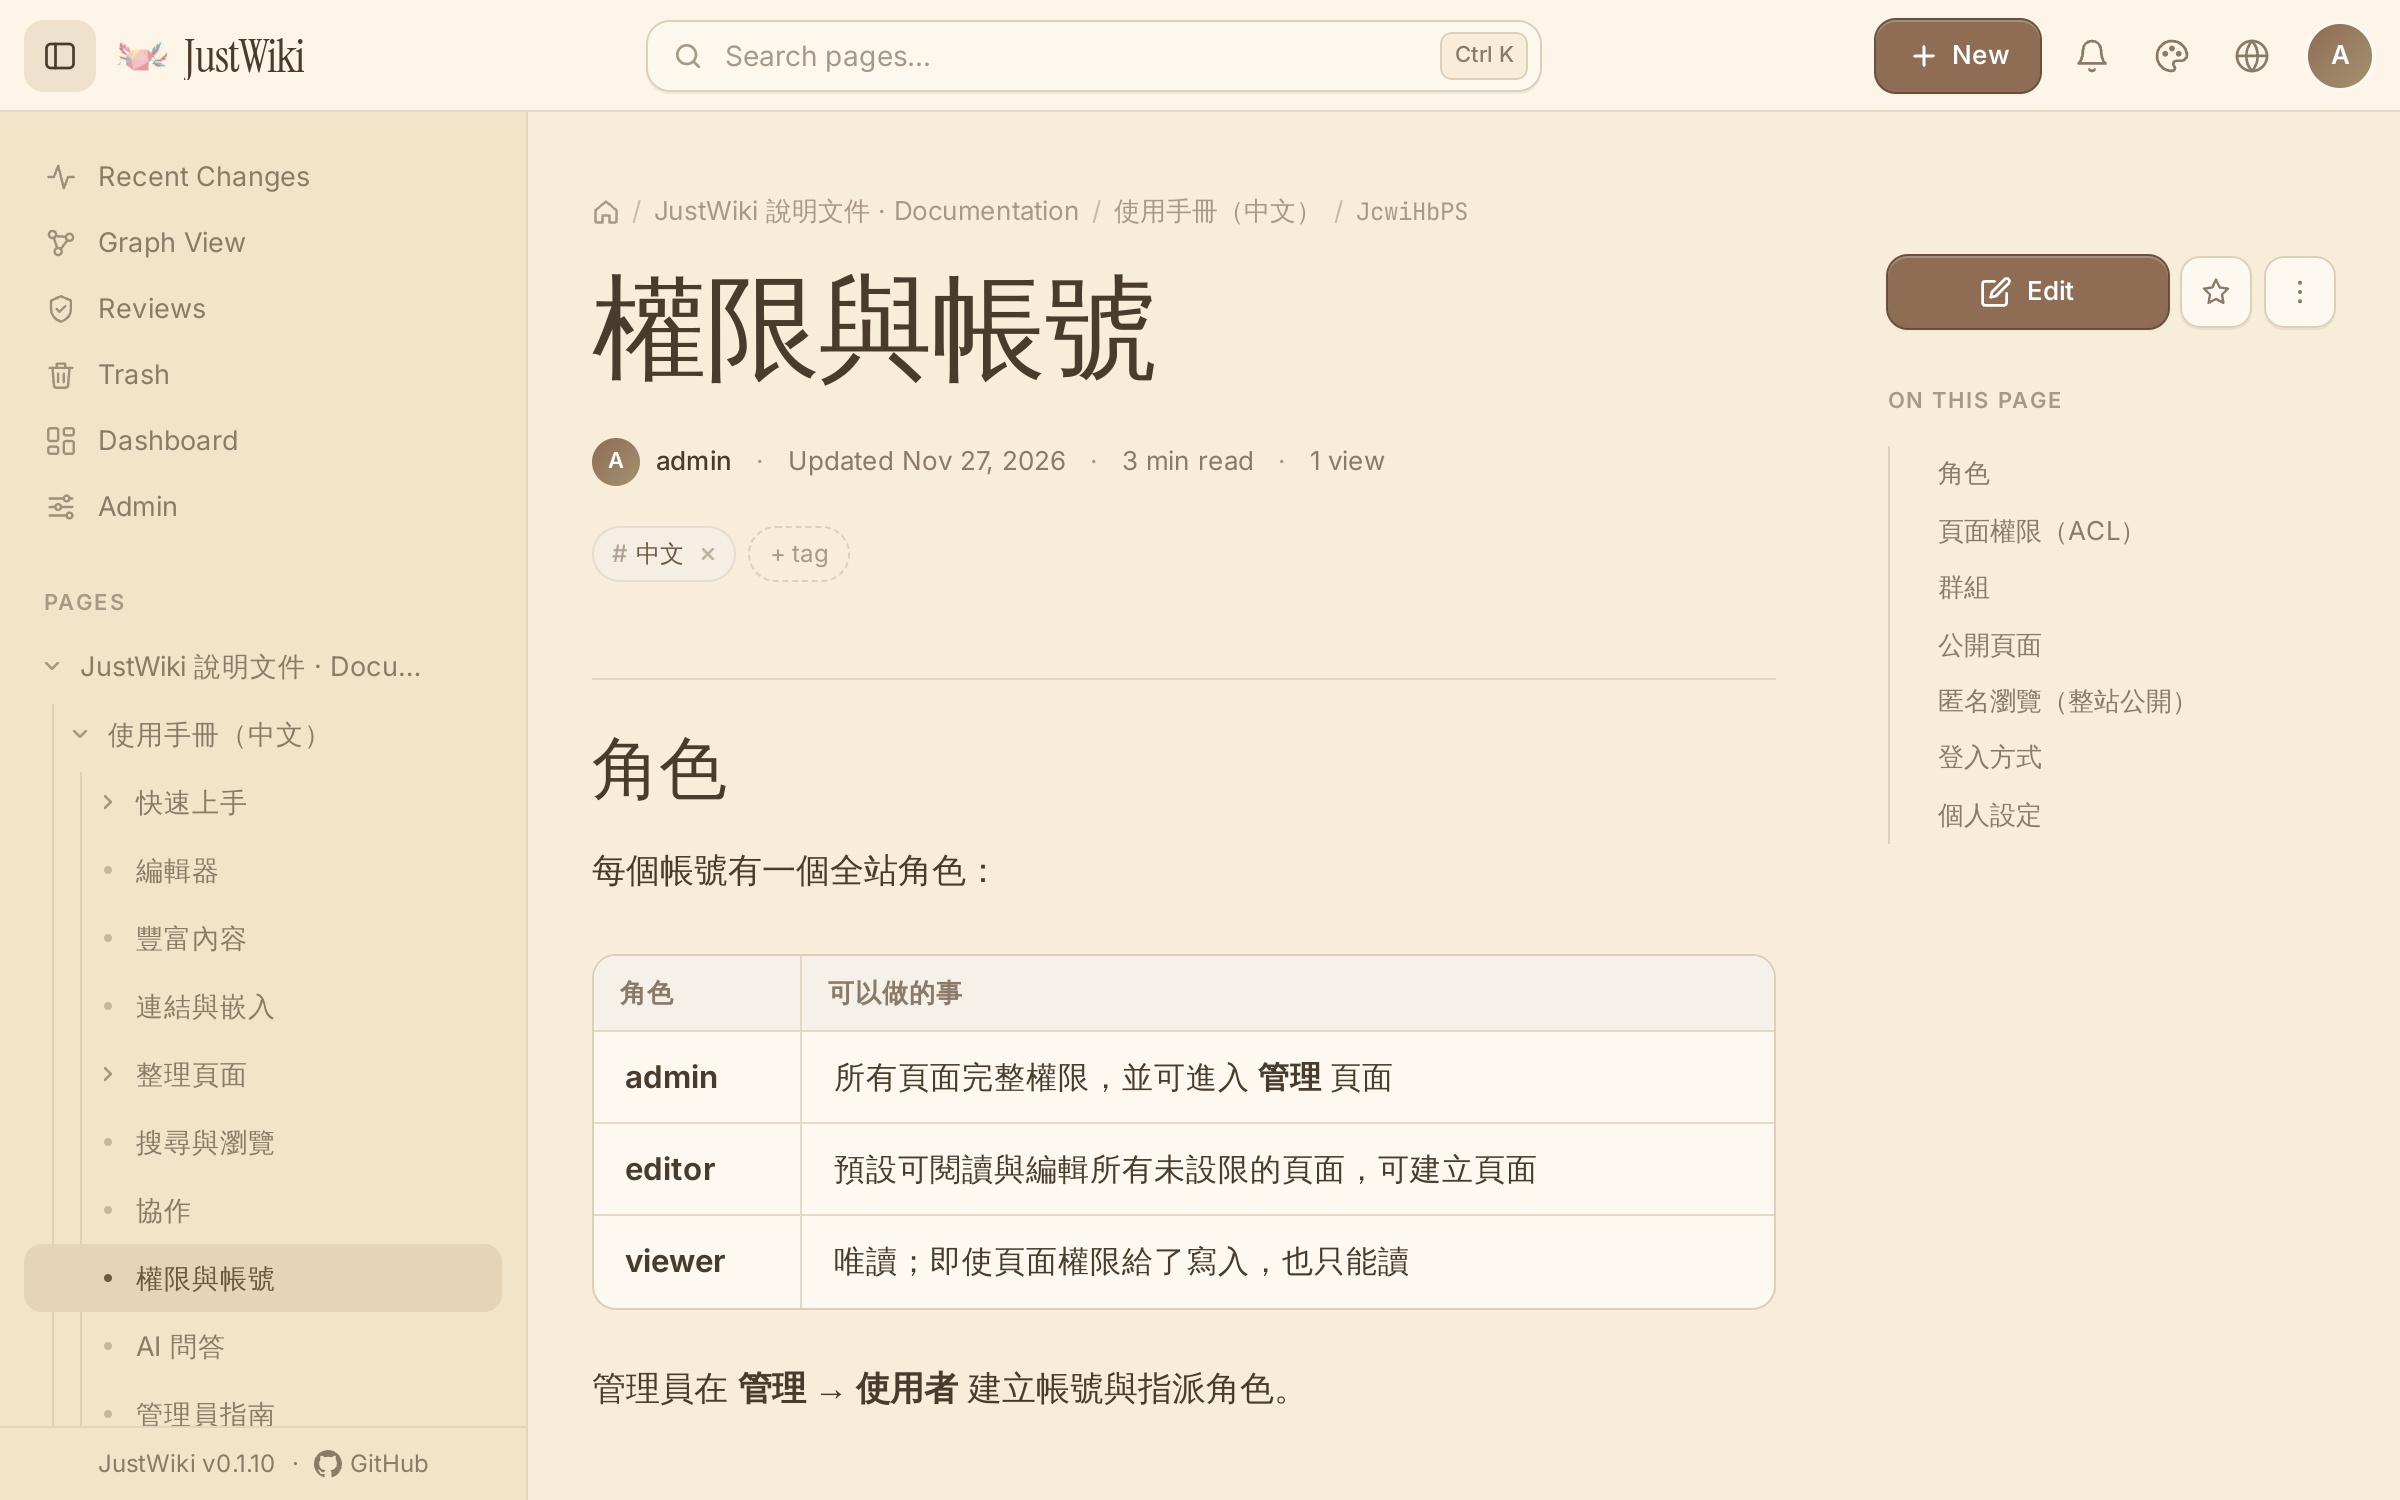
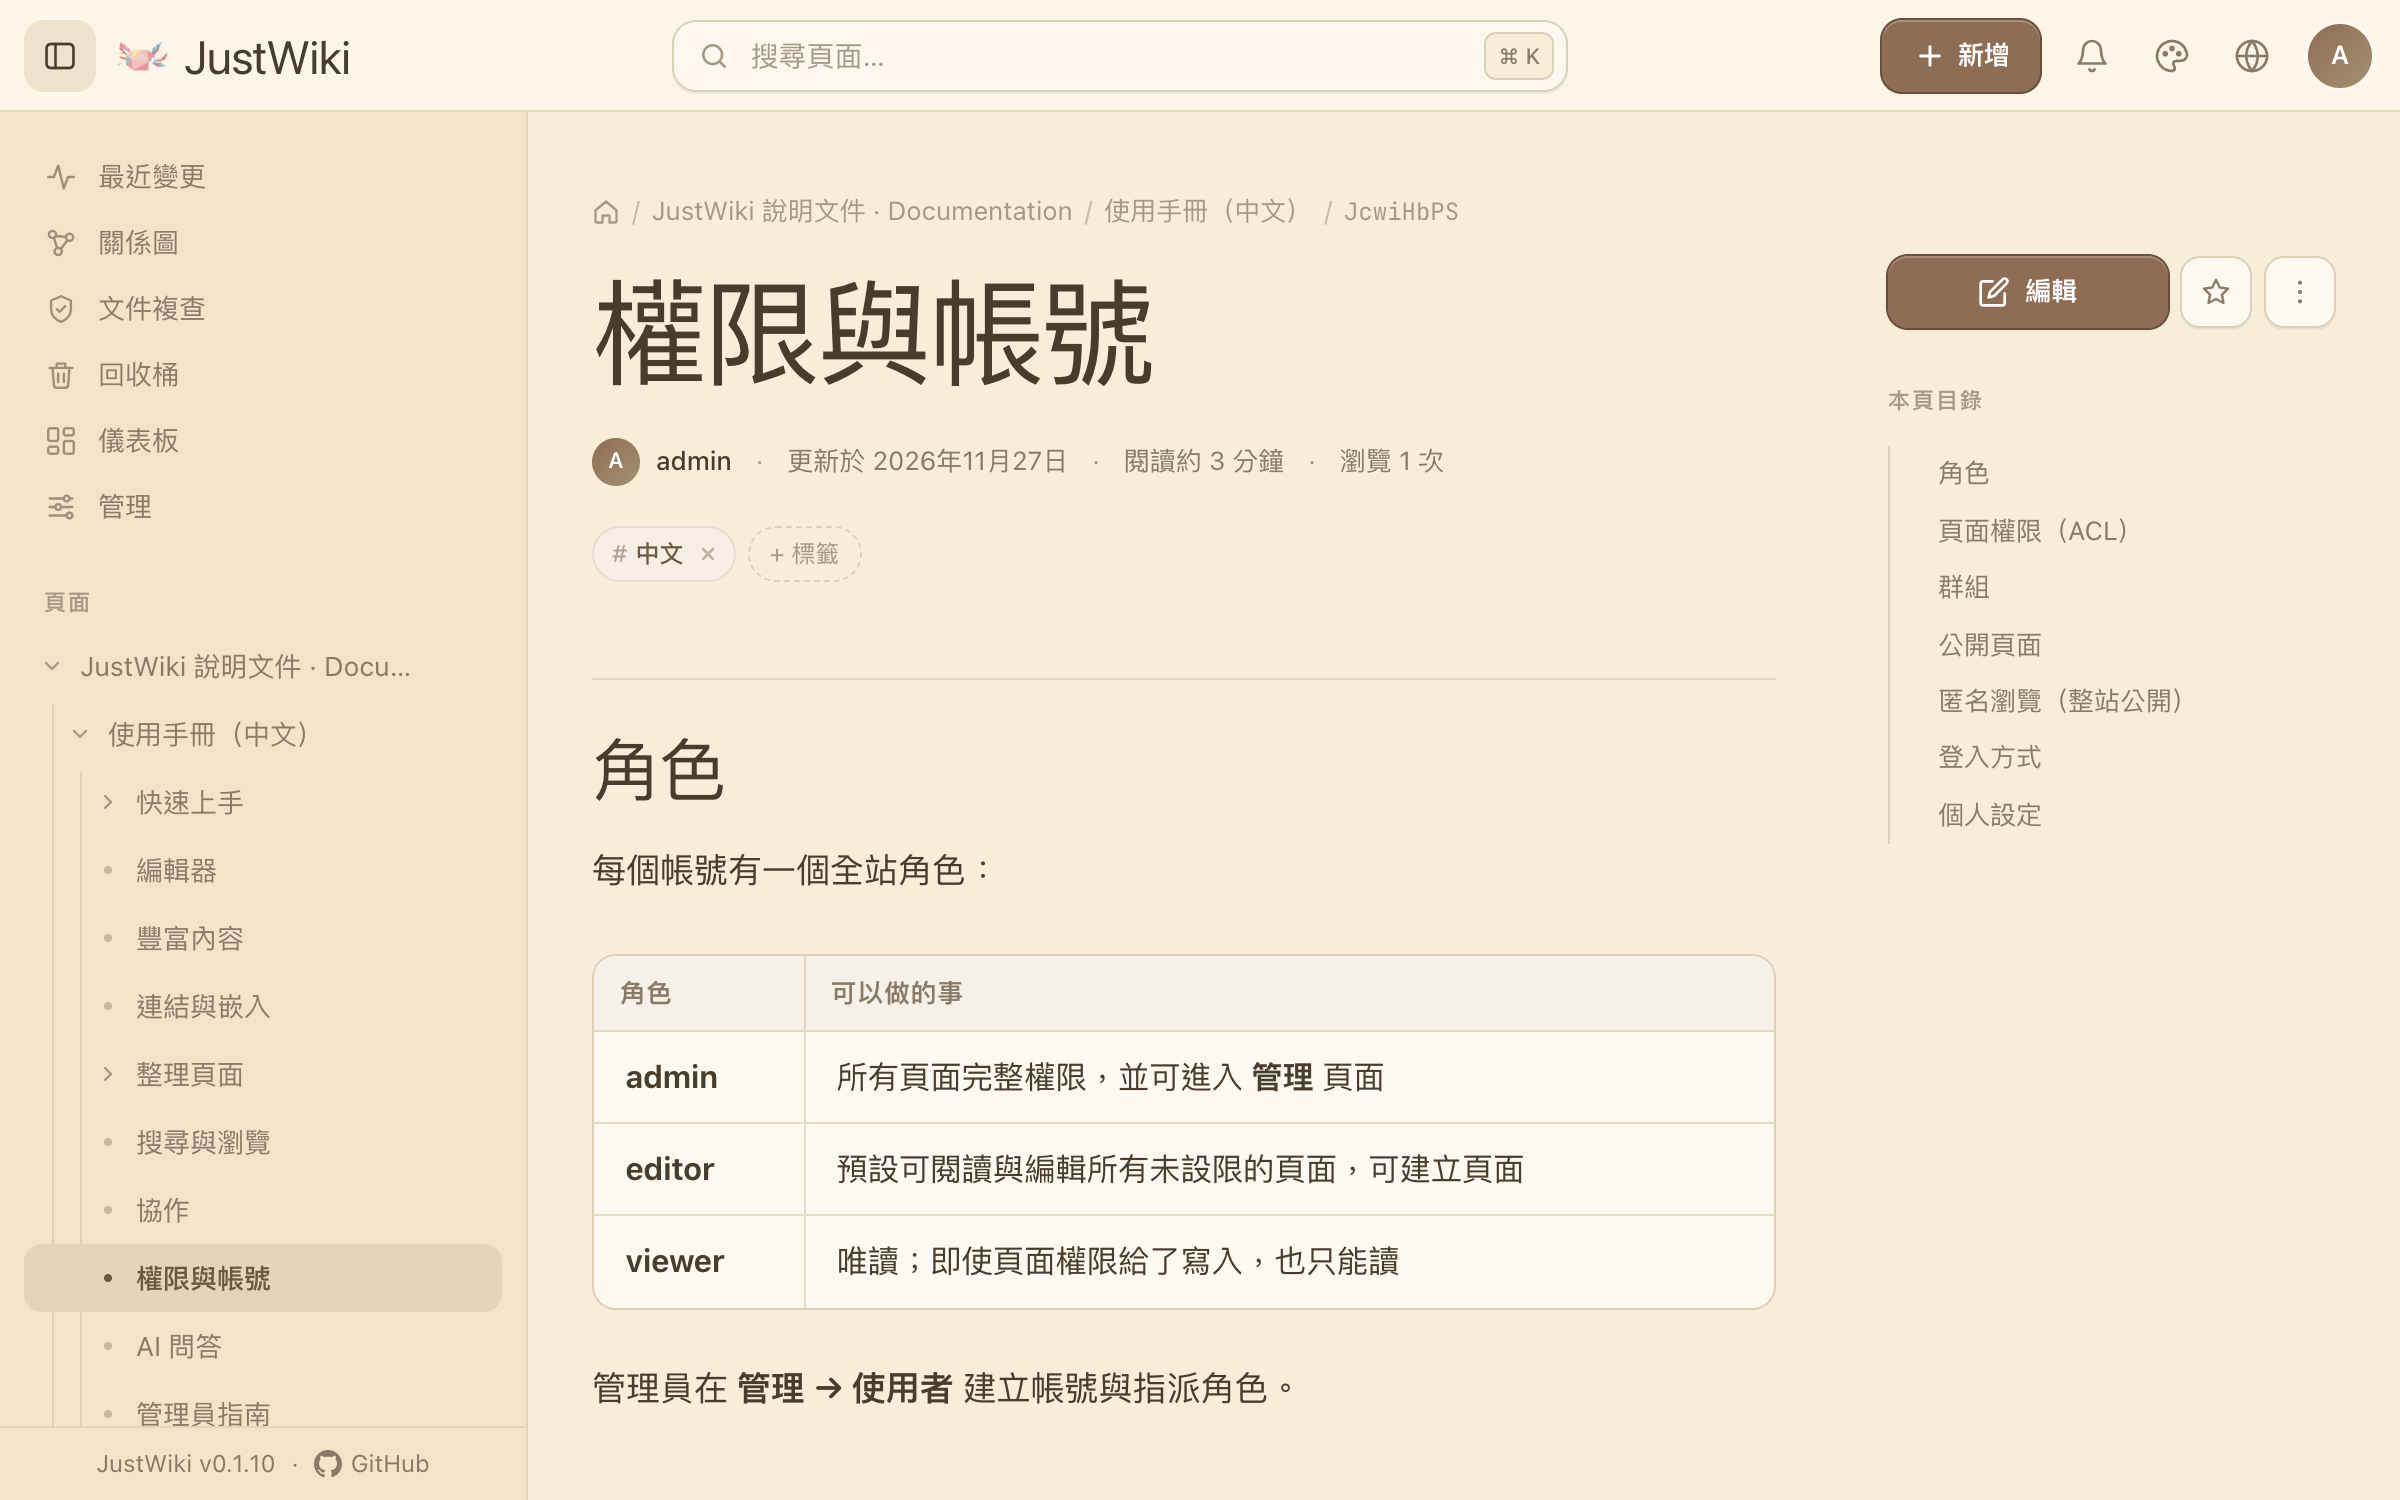
Retake guide screenshots with the current UI, add English set
- Reshoot the Chinese guide screenshots (hero, rich-content, slash-commands,
  wikilink, graph-3d, themes) against the current UI with the zh-TW locale
- Add English counterparts (*-en.png) shot with English UI and English pages
- Point docs/manual/en/* and README.en.md at the English screenshots

diff --git a/docs/manual/en/browse.md b/docs/manual/en/browse.md
@@ -14,7 +14,7 @@ Try it on this demo: search for "backup" or "ACL".
 
 ## Graph View
 
-![3D knowledge graph](/api/media/graph-3d.png)
+![3D knowledge graph](/api/media/graph-3d-en.png)
 
 **Graph View** in the sidebar draws every page as a node and every wikilink as an edge, so you can spot the hubs and the orphans.
 
@@ -31,7 +31,7 @@ Click the bookmark icon on any page and it appears under **Bookmarks** in the si
 
 ## Themes and fonts
 
-![The 9 built-in themes](/api/media/themes.png)
+![The 9 built-in themes](/api/media/themes-en.png)
 
 The theme menu (top right) has 9 color schemes: **Light, Dark, Lavender, Forest, Rose, Ocean, Sand, Sunset, Nord**. You can also switch the body font to monospace. Your choice is remembered in the browser.
 

diff --git a/README.en.md b/README.en.md
@@ -11,7 +11,7 @@
 A lightweight, self-hosted wiki for small teams. Markdown-first, and all your data is one SQLite file plus a media folder — no external database. A 1 vCPU / 512 MB VM or a Raspberry Pi is enough.
 
 <p align="center">
-  <img src="docs/images/hero.png" alt="JustWiki main UI: page tree on the left, table of contents on the right, Markdown viewer in the middle" width="100%">
+  <img src="docs/images/hero-en.png" alt="JustWiki main UI: page tree on the left, table of contents on the right, Markdown viewer in the middle" width="100%">
 </p>
 
 **📖 Documentation and live demo: <https://codingman.cc/JustWiki/>**

diff --git a/docs/manual/en/quick-start.md b/docs/manual/en/quick-start.md
@@ -4,7 +4,7 @@ Write your first page and get to know the UI in five minutes.
 
 ## A tour of the UI
 
-![Main UI](/api/media/hero.png)
+![Main UI](/api/media/hero-en.png)
 
 - **Left sidebar** — the page tree, bookmarks, and entries for Recent Changes, Graph View, AI Chat, Reviews and Trash
 - **Center** — the page itself; above it are Edit, History, Watch, Bookmark and **⋯ More actions** (export, permissions, public sharing, review settings, delete…)

diff --git a/docs/manual/en/links.md b/docs/manual/en/links.md
@@ -4,7 +4,7 @@ A wiki is only as useful as the connections between its pages. JustWiki gives yo
 
 ## Wikilinks
 
-![Typing double brackets opens page search](/api/media/wikilink.png)
+![Typing double brackets opens page search](/api/media/wikilink-en.png)
 
 Type `[[` in the editor to search for a page; keep typing to filter, use ↑ ↓ to choose and Enter to insert. The result looks like:
 

diff --git a/docs/manual/en/guide.md b/docs/manual/en/guide.md
@@ -4,7 +4,7 @@
 
 JustWiki is a lightweight, self-hosted wiki for small teams. It is Markdown-first, and everything lives in a single SQLite file plus a media folder — no external database. A 1 vCPU / 512 MB VM or a Raspberry Pi is enough to run it.
 
-![JustWiki main UI](/api/media/hero.png)
+![JustWiki main UI](/api/media/hero-en.png)
 
 ## Why JustWiki
 

diff --git a/docs/manual/en/rich-content.md b/docs/manual/en/rich-content.md
@@ -2,7 +2,7 @@
 
 Beyond plain text, a JustWiki page can hold callouts, diagrams, math and architecture drawings. Every example on this page is rendering live — compare it with the source shown above it.
 
-![Callouts and Mermaid rendered](/api/media/rich-content.png)
+![Callouts and Mermaid rendered](/api/media/rich-content-en.png)
 
 ## Callouts
 

diff --git a/docs/manual/en/editor.md b/docs/manual/en/editor.md
@@ -4,7 +4,7 @@ JustWiki's editor is Milkdown, a WYSIWYG editor: what you type is what readers s
 
 ## Slash commands
 
-![Slash command menu](/api/media/slash-commands.png)
+![Slash command menu](/api/media/slash-commands-en.png)
 
 Type `/` in the editor to open the insert menu. Keep typing to filter, use ↑ ↓ to choose and Enter to insert.
 
